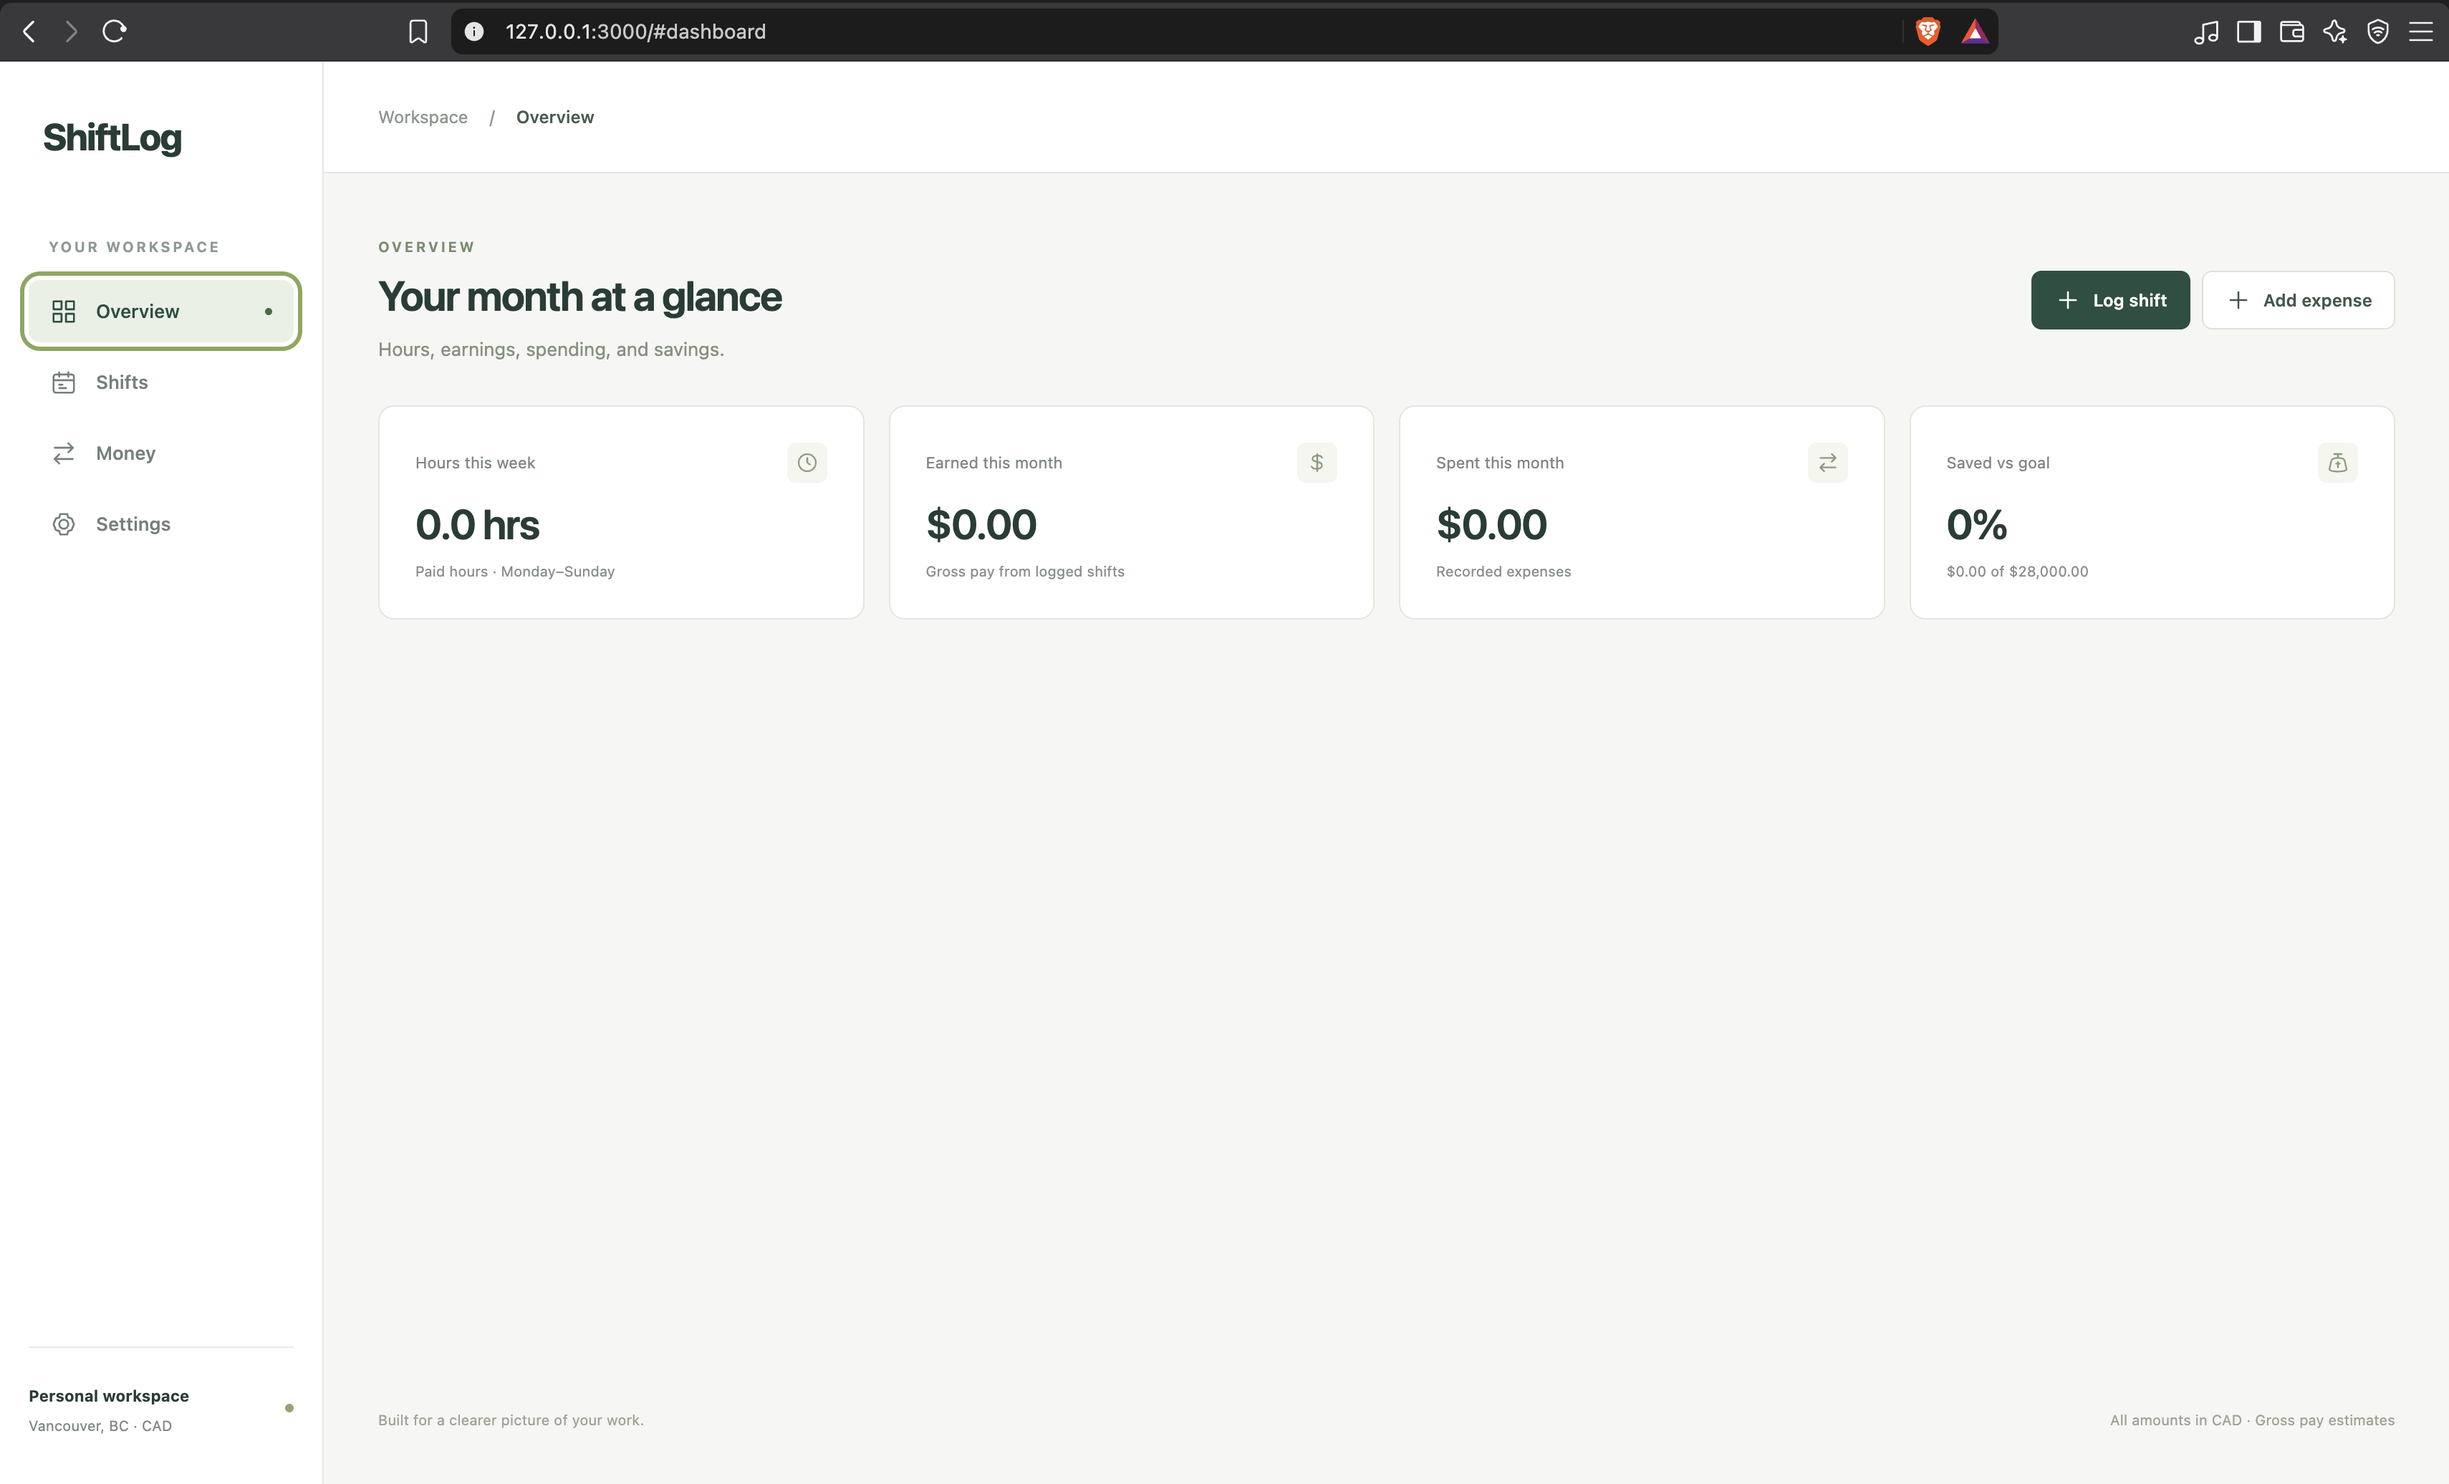
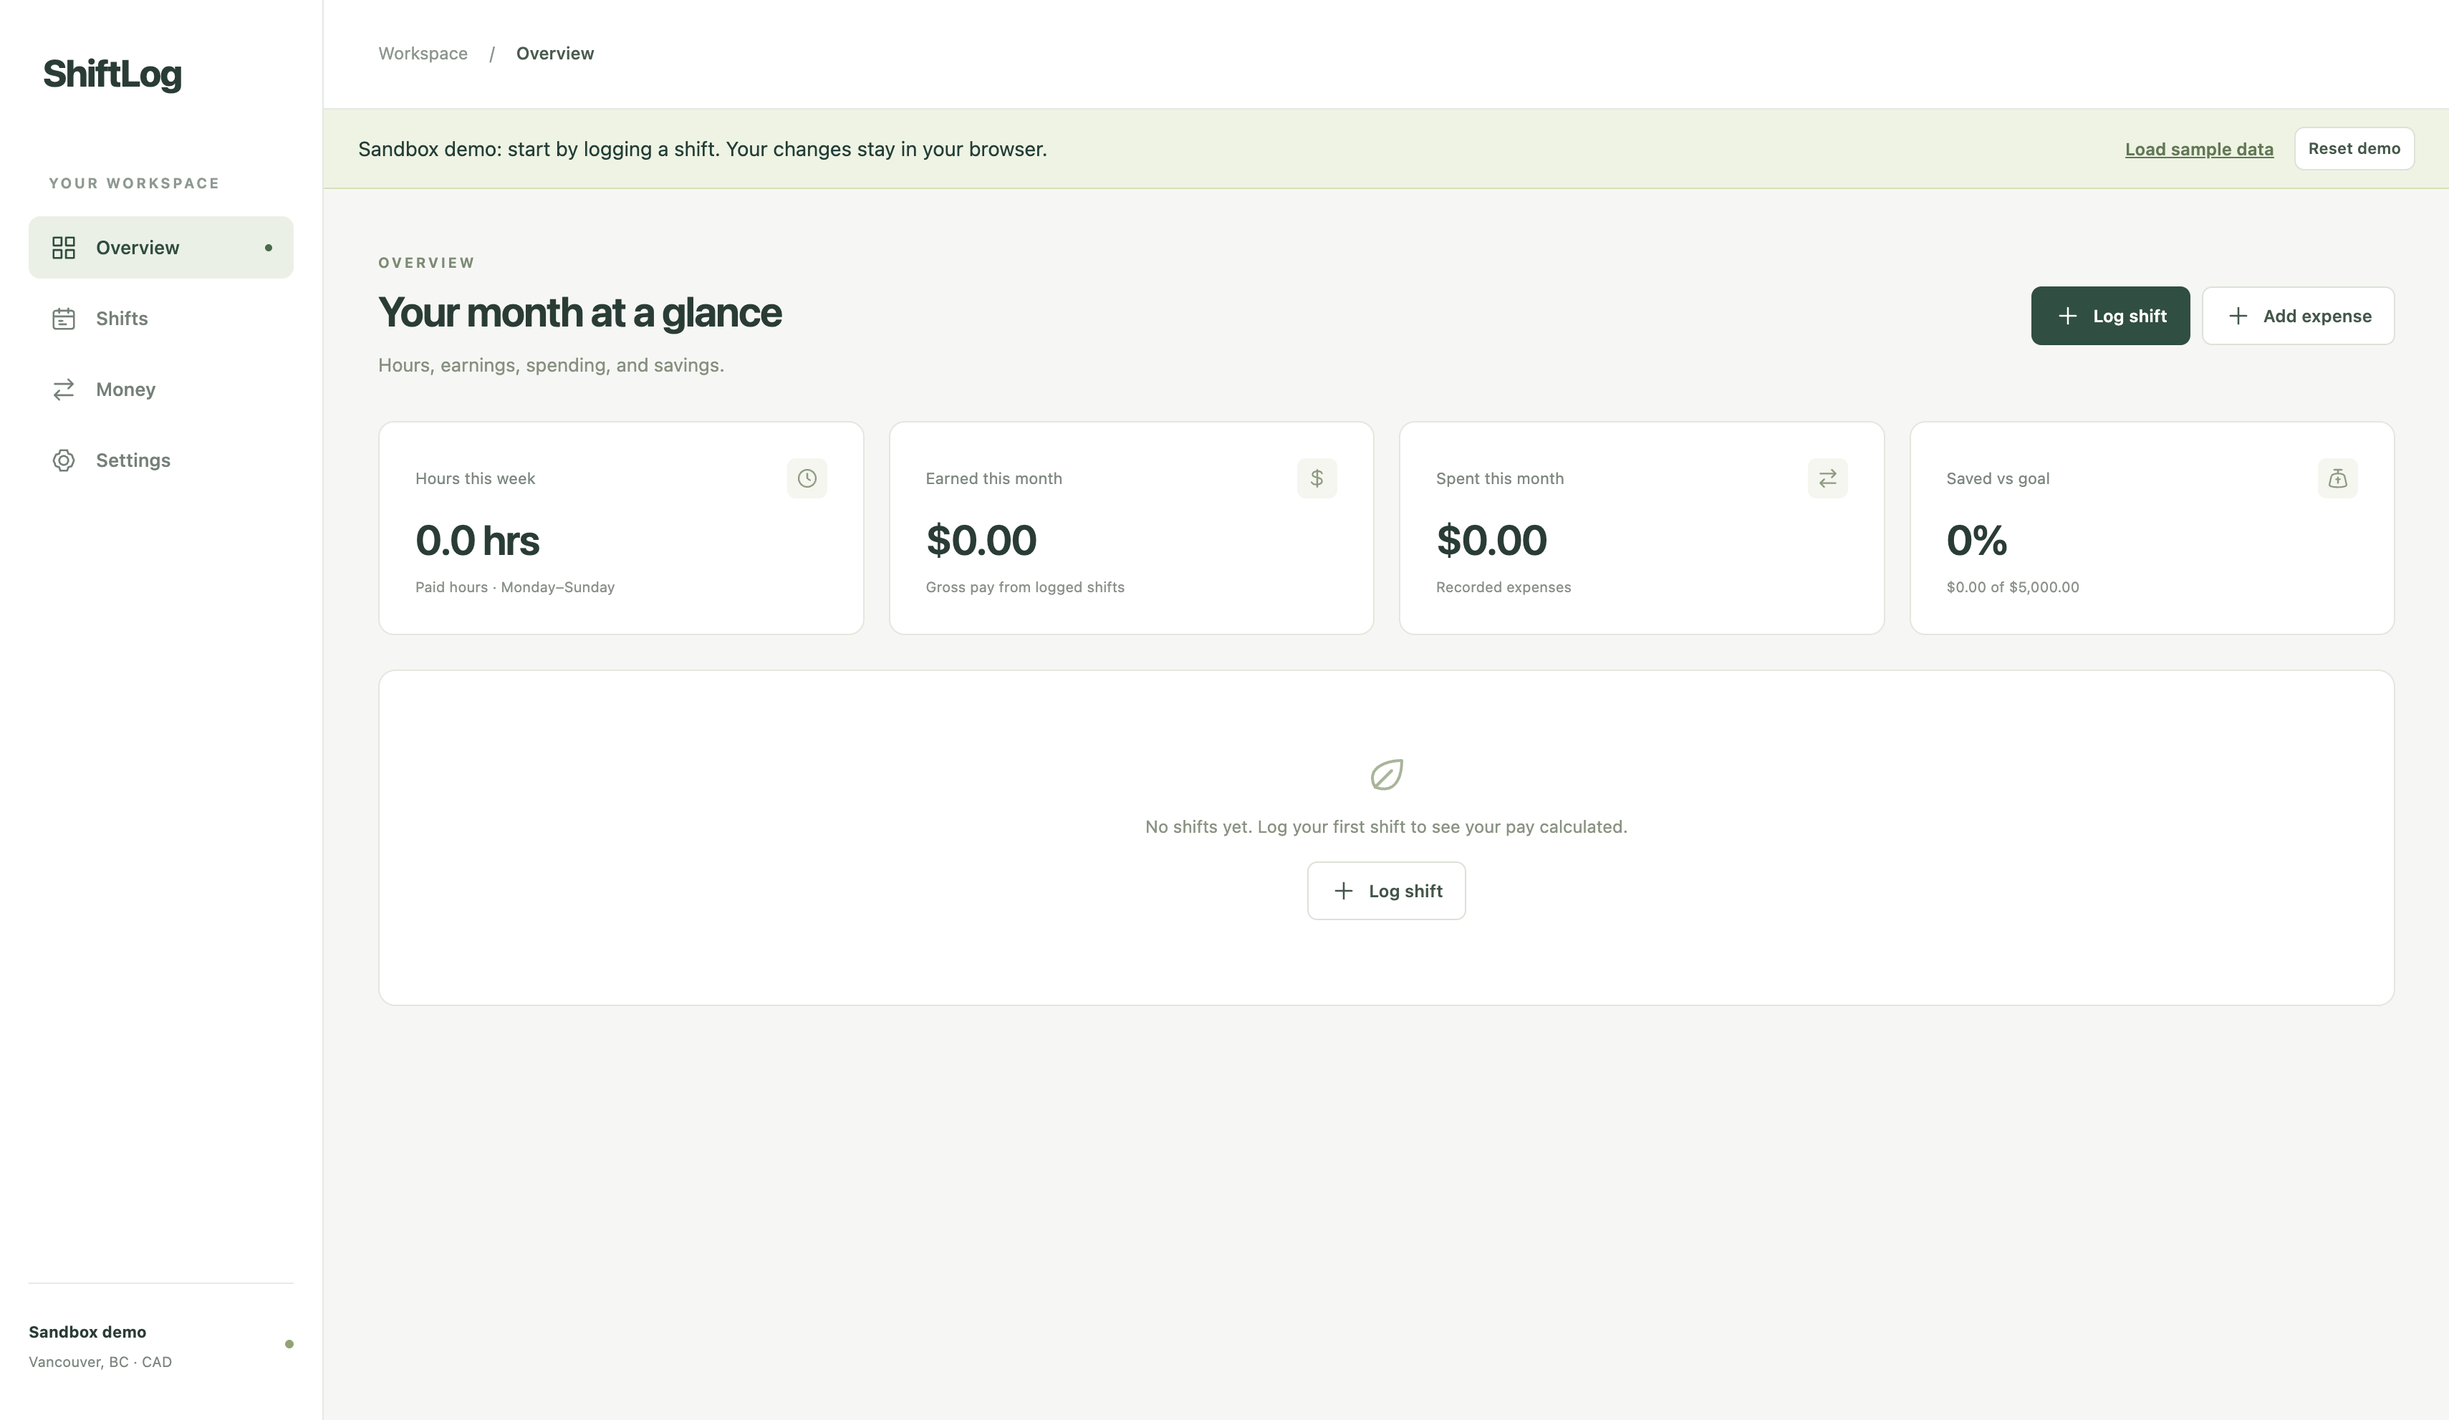
Fix About typos, update ShiftLog preview, version CSS and JS

diff --git a/index.html b/index.html
@@ -25,7 +25,7 @@
       rel="stylesheet"
     />
     <!-- Tailwind compiled output -->
-    <link rel="stylesheet" href="css/output.css" />
+    <link rel="stylesheet" href="css/output.css?v=2" />
   </head>
   <body class="overflow-x-hidden">
     <!-- ── NAVBAR ────────────────────────────────── -->
@@ -233,7 +233,7 @@
           </h2>
           <p class="text-[#71717A] leading-relaxed mb-6 reveal reveal-delay-2">
             Hi there! I’m Kelly, and I like figuring out how things work! I’m
-            happiest when I’m learning something new and software is where that
+            happiest when I’m learning something new, and software is where that
             curiosity ended up. I like taking something that’s messy or done by
             hand and turning it into a system that just works.
           </p>
@@ -241,12 +241,12 @@
             Right now I’m studying Computer Systems Technology at BCIT. ShiftLog
             came from my own routine: I was tracking my shifts and doing my pay
             math in my head, so I built a tool that logs my shifts, calculates what
-            I earned (including night premium pay), and tracks my savings
+            I earned, and tracks my savings
             against a goal.
           </p>
           <p class="text-[#71717A] leading-relaxed mb-6 reveal reveal-delay-2">
             Outside of code, you’ll usually find me watching Formula 1,
-            basketball games, working or writing poems. I’m originally from
+            basketball games, or working or writing poems. I’m originally from
             Kigali, Rwanda, and now based in Vancouver.
           </p>
 
@@ -498,6 +498,6 @@
     </footer>
 
     <!-- External JavaScript -->
-    <script src="js/main.js"></script>
+    <script src="js/main.js?v=2"></script>
   </body>
 </html>
